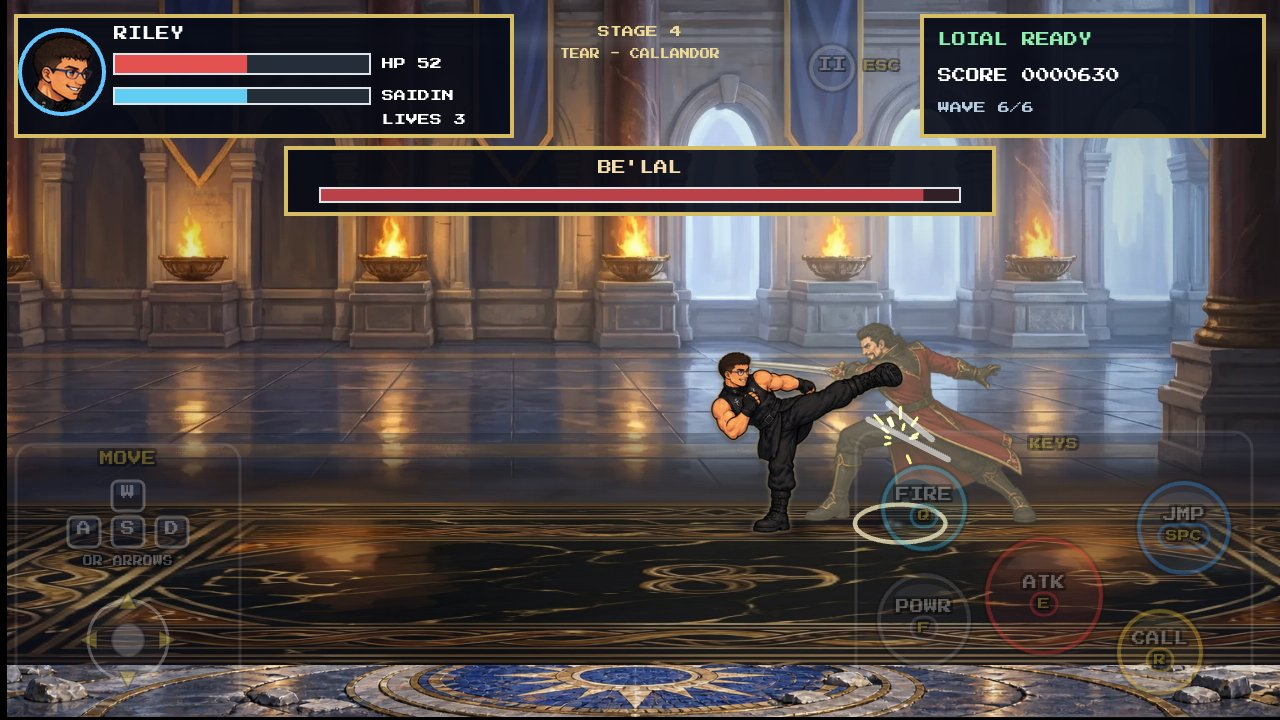
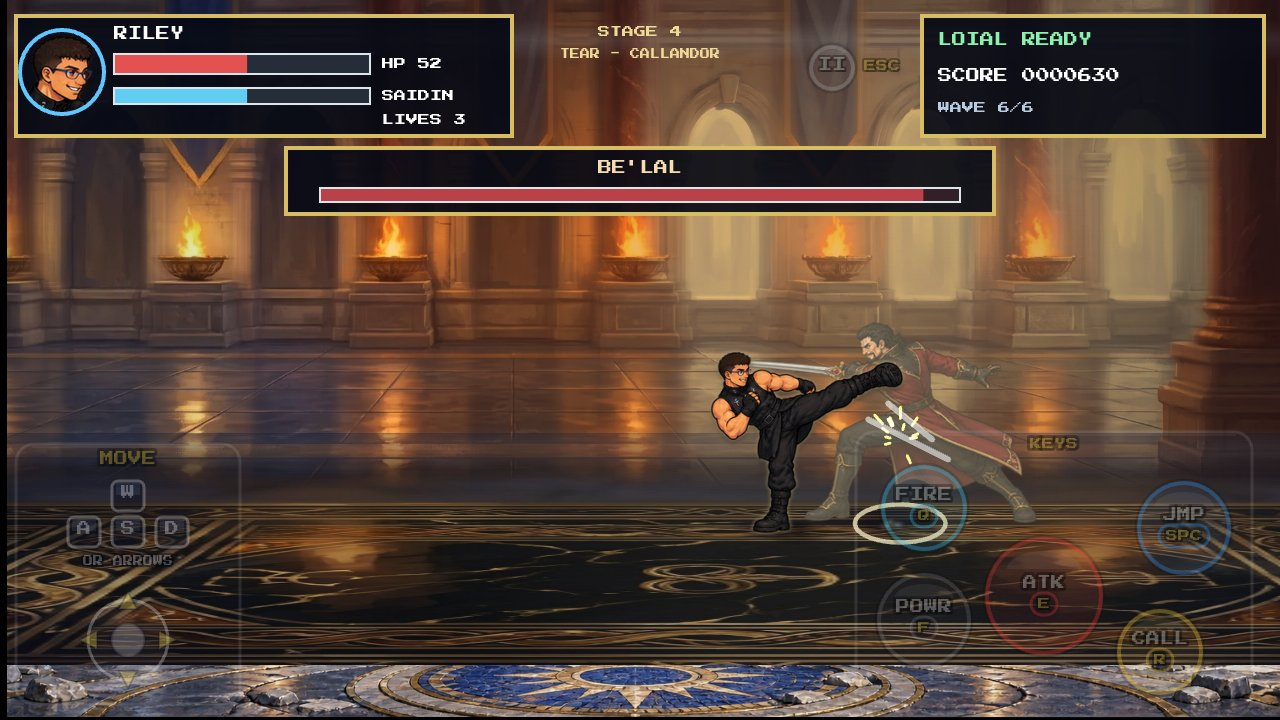
scroll5: soften the new grades in one pass so stage enter stays under 700 ms
The multi-pass blur matched the hall and the last street, but it baked inside the stage-enter clock. One tapered pass keeps those grades, hides the spike columns, and leaves the stage 1 plates alone.

Changed region(s): [[0.25, 0.0, 0.9688, 0.6722], [0.1875, 0.275, 0.2188, 0.3667]]

diff --git a/js/stages.js b/js/stages.js
@@ -123,10 +123,15 @@
     const keep='stage'+n+'-',floorKeep='floor'+n;
     for(const id of [...sized.keys()]){
       const s=String(id);
+      if(s.startsWith('pin:'))continue;
       if(s.startsWith('stage')&&!s.startsWith(keep))sized.delete(id);
       else if(s.startsWith('floor')&&!s.startsWith(floorKeep)&&!s.startsWith('floor-roof'))sized.delete(id);
     }
-    for(const id of [...sliceCache.keys()])if(!String(id).startsWith(keep))sliceCache.delete(id);
+    for(const id of [...sliceCache.keys()]){
+      const s=String(id);
+      if(s.startsWith('pin:'))continue;
+      if(!s.startsWith(keep))sliceCache.delete(id);
+    }
     for(const id of [...seamless.keys()]){
       const s=String(id);
       if(s.startsWith('floor')&&!s.startsWith(floorKeep)&&!s.startsWith('floor-roof'))seamless.delete(id);
@@ -211,22 +216,10 @@
   // Pale gray mist and matte fringes on the stage 5 street. Threshold the
   // semi-transparent edge, then pull the washed-out stone onto the night castle.
   function nightMist(canvas){
-    const g=canvas.getContext('2d'),w=canvas.width,h=canvas.height,img=g.getImageData(0,0,w,h),d=img.data;
-    const kill=new Uint8Array(w*h),night=[24,26,34];
-    for(let y=0;y<h;y++)for(let x=0;x<w;x++){
-      const p=y*w+x,a=d[p*4+3];
-      if(a>=250)continue;
-      if(a<230){kill[p]=1;continue;}
-      let edge=false;
-      for(let dy=-3;dy<=3&&!edge;dy++)for(let dx=-3;dx<=3;dx++){
-        const xx=x+dx,yy=y+dy;
-        if(xx<0||yy<0||xx>=w||yy>=h||d[(yy*w+xx)*4+3]<24)edge=true;
-      }
-      if(edge)kill[p]=1;
-    }
-    for(let p=0;p<kill.length;p++)if(kill[p]){const i=p*4;d[i]=d[i+1]=d[i+2]=d[i+3]=0;}
+    const g=canvas.getContext('2d'),w=canvas.width,h=canvas.height,img=g.getImageData(0,0,w,h),d=img.data,night=[24,26,34];
     for(let i=0;i<d.length;i+=4){
-      if(d[i+3]<16){d[i]=d[i+1]=d[i+2]=0;continue;}
+      const a=d[i+3];
+      if(a<240){d[i]=d[i+1]=d[i+2]=d[i+3]=0;continue;}
       const r=d[i],gc=d[i+1],b=d[i+2],L=0.2126*r+0.7152*gc+0.0722*b;
       const max=Math.max(r,gc,b),min=Math.min(r,gc,b),sat=max?(max-min)/max:0;
       if(sat<0.34&&L>32){
@@ -245,45 +238,50 @@
     y0=Math.max(0,Math.min(h-1,y0|0));
     y1=Math.max(y0+1,Math.min(h,y1|0));
     const img=g.getImageData(0,0,w,h),d=img.data,rows=y1-y0;
-    const rad=power?4:2,passes=power?18:10,thresh=power?1.45:2.05;
-    const taps=[];
-    for(let k=-rad;k<=rad;k++)taps.push(k,k===0?0.4:0.6/(rad*2));
-    for(let pass=0;pass<passes;pass++){
-      const cols=new Float64Array(w);
-      for(let x=1;x<w;x++){
-        let s=0;
-        for(let y=y0;y<y1;y++){
-          const i=(y*w+x)*4,p=i-4;
-          s+=Math.abs(d[i]-d[p])+Math.abs(d[i+1]-d[p+1])+Math.abs(d[i+2]-d[p+2]);
-        }
-        cols[x]=s/rows;
+    const cols=new Float64Array(w);
+    for(let x=1;x<w;x++){
+      let s=0;
+      for(let y=y0;y<y1;y++){
+        const i=(y*w+x)*4,p=i-4;
+        s+=Math.abs(d[i]-d[p])+Math.abs(d[i+1]-d[p+1])+Math.abs(d[i+2]-d[p+2]);
       }
-      const sample=[];
-      for(let x=1;x<w;x++)sample.push(cols[x]);
-      sample.sort((a,b)=>a-b);
-      const med=sample[sample.length>>1]||1;
-      let hot=0;
-      const src=new Uint8ClampedArray(d);
-      const absCut=power?18:24;
-      for(let x=rad;x<w-rad;x++){
-        const ratio=cols[x]/med,absHot=cols[x]>=absCut&&(!power||ratio>=1.2);
-        if(ratio<thresh&&!absHot)continue;
-        hot++;
-        const k=absHot?Math.min(0.84,0.55+(cols[x]-absCut)/60):Math.min(0.85,(ratio-1.5)/ratio);
-        for(let y=y0;y<y1;y++){
-          const i=(y*w+x)*4;
-          if(src[i+3]<32)continue;
-          for(let c=0;c<3;c++){
-            let blurred=0;
-            for(let t=0;t<taps.length;t+=2){
-              const n=i+taps[t]*4;
-              blurred+=(src[n+3]<32?src[i+c]:src[n+c])*taps[t+1];
-            }
-            d[i+c]=src[i+c]+(blurred-src[i+c])*k;
-          }
-        }
+      cols[x]=s/rows;
+    }
+    const sample=[];
+    for(let x=1;x<w;x++)sample.push(cols[x]);
+    sample.sort((a,b)=>a-b);
+    const med=sample[sample.length>>1]||1;
+    const thresh=power?1.4:2.05,absCut=power?16:24,rad=power?22:10;
+    const dist=new Int16Array(w);
+    for(let x=0;x<w;x++)dist[x]=rad+1;
+    for(let x=1;x<w;x++){
+      const ratio=cols[x]/med;
+      if(ratio>=thresh||(cols[x]>=absCut&&(!power||ratio>=1.2)))dist[x]=0;
+    }
+    for(let x=1;x<w;x++)dist[x]=Math.min(dist[x],dist[x-1]+1);
+    for(let x=w-2;x>=0;x--)dist[x]=Math.min(dist[x],dist[x+1]+1);
+    const src=new Uint8ClampedArray(d),strength=power?0.92:0.74;
+    const pr=new Float64Array(w+1),pg=new Float64Array(w+1),pb=new Float64Array(w+1),pn=new Float64Array(w+1);
+    for(let y=y0;y<y1;y++){
+      const row=y*w;
+      for(let x=0;x<w;x++){
+        const j=(row+x)*4,use=src[j+3]>=32;
+        pr[x+1]=pr[x]+(use?src[j]:0);
+        pg[x+1]=pg[x]+(use?src[j+1]:0);
+        pb[x+1]=pb[x]+(use?src[j+2]:0);
+        pn[x+1]=pn[x]+(use?1:0);
       }
-      if(!hot)break;
+      for(let x=1;x<w-1;x++){
+        if(dist[x]>rad)continue;
+        const i=(row+x)*4;
+        if(src[i+3]<32)continue;
+        const a=Math.max(0,x-rad),b=Math.min(w-1,x+rad),n=pn[b+1]-pn[a];
+        if(n<2)continue;
+        const k=strength*(1-dist[x]/rad);
+        d[i]=src[i]*(1-k)+(pr[b+1]-pr[a])/n*k;
+        d[i+1]=src[i+1]*(1-k)+(pg[b+1]-pg[a])/n*k;
+        d[i+2]=src[i+2]*(1-k)+(pb[b+1]-pb[a])/n*k;
+      }
     }
     g.putImageData(img,0,0);
   }
@@ -356,7 +354,8 @@
   }
   function bakedPlate(piece,drawH,screenY){
     const rs=rsNow(),rampU=piece.ramp||0,rampOut=piece.rampOut||0;
-    const id=piece.key+':plate:'+rampU+':'+rampOut+'@'+rs+':'+Math.round(piece.w*10)+'x'+Math.round(drawH*10);
+    const pin=piece.key==='stage5-mid-b'?'pin:':'';
+    const id=pin+piece.key+':plate:'+rampU+':'+rampOut+'@'+rs+':'+Math.round(piece.w*10)+'x'+Math.round(drawH*10);
     if(sliceCache.has(id))return sliceCache.get(id);
     const img=R.assets.get(piece.key);if(!img)return null;
     const c=document.createElement('canvas');
@@ -380,7 +379,7 @@
   }
   function gradedFar(key,logicalW,logicalH,stageN){
     const mode=FAR_GRADE[stageN]||'';
-    const rs=rsNow(),id=key+':far:'+mode+'@'+rs+':'+Math.round(logicalW)+'x'+Math.round(logicalH);
+    const rs=rsNow(),id=(stageN===5?'pin:':'')+key+':far:'+mode+'@'+rs+':'+Math.round(logicalW)+'x'+Math.round(logicalH);
     if(sized.has(id))return sized.get(id);
     const img=R.assets.get(key);if(!img)return null;
     const c=document.createElement('canvas');
@@ -548,7 +547,17 @@
       // shifts by the factor this layer actually used, times (round - camera).
       if(!this._painting && R.assets.has('stage'+n+'-far')){
         const rs=R.display.renderScale||1,camExact=scene.camera.x||0,bw=Math.max(1,Math.ceil(640*rs)),bh=Math.max(1,Math.ceil(360*rs)),roundCam=Math.round(camExact);
-        if(this._stageKept!==n){evictStage(n);this._stageKept=n;}
+        if(this._stageKept!==n){evictStage(n);this._stageKept=n;this._platesBaked=0;}
+        if(n>1&&this._platesBaked!==n&&R.assets.has('stage'+n+'-mid-b')){
+          const layout=midLayout(n,travelOf(scene));
+          for(const piece of layout.pieces){
+            const img=R.assets.get(piece.key);if(!img)continue;
+            const fullH=piece.w*img.height/img.width;
+            const y=n===4?0:10+MID_HEIGHTS[n-1]-fullH;
+            bakedPlate(piece,n===4?MID_HEIGHTS[3]:fullH,y);
+          }
+          this._platesBaked=n;
+        }
         const views=this._views||(this._views={});
         const roof=roofing(scene)?1:0;
         const layers=[
